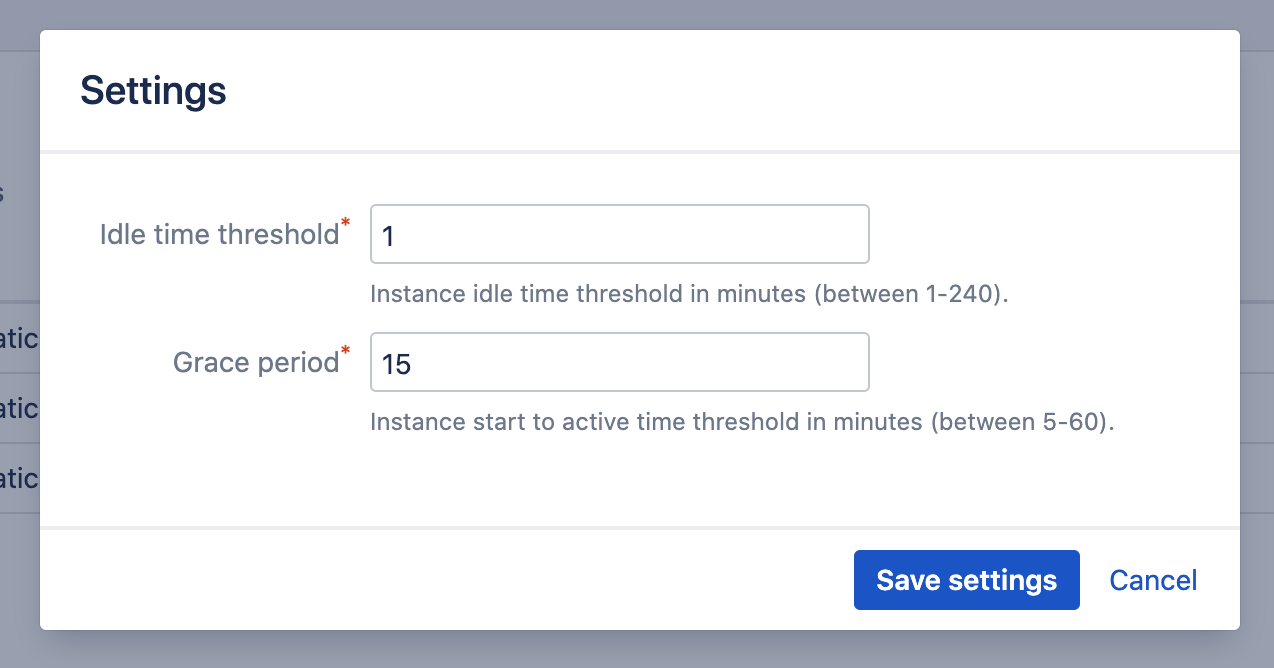
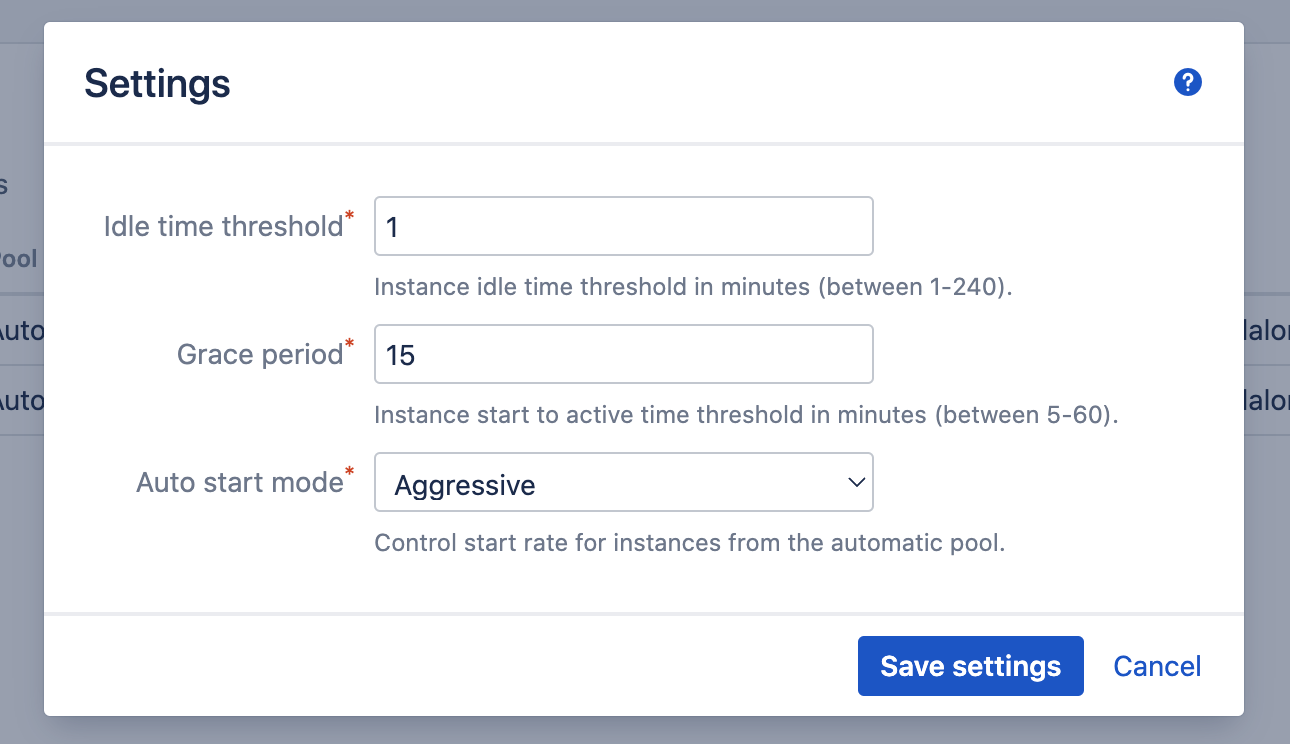
Addition of new setting: auto start mode, to KSB

diff --git a/products/ksb/administration/instances/instances.md b/products/ksb/administration/instances/instances.md
@@ -184,3 +184,11 @@ to *Active*, and the *current state* becoming *Active*. When the instance does n
 assumes something is wrong and deactivates the instance as to prevent holding on to useless (cloud) resources or Bamboo agent licenses.
 
 Note that instances in the *Task* pool have a similar setting on the task configuration.
+
+***Auto start mode***
+
+This setting only applies to instances in the *Automatic* pool. It determines the rate at which the plugin will schedule
+new instances to start based on builds being added to the build queue.
+
+- *Conservative*: if an instance is already deploying or loading which can handle the build, the plugin will refrain from starting a new instance.
+- *Aggressive*: a new instance will always be selected to start if it can handle the build, independent of the state of other instances.
